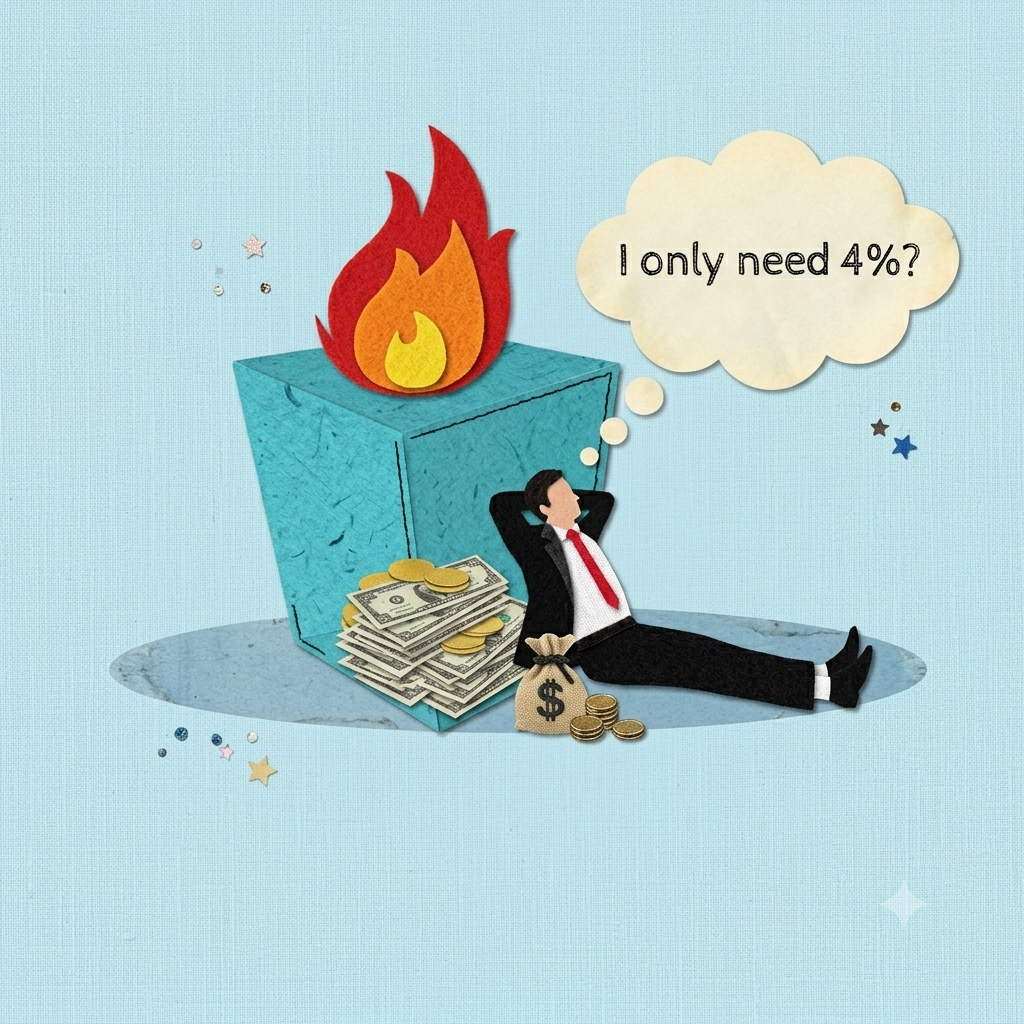
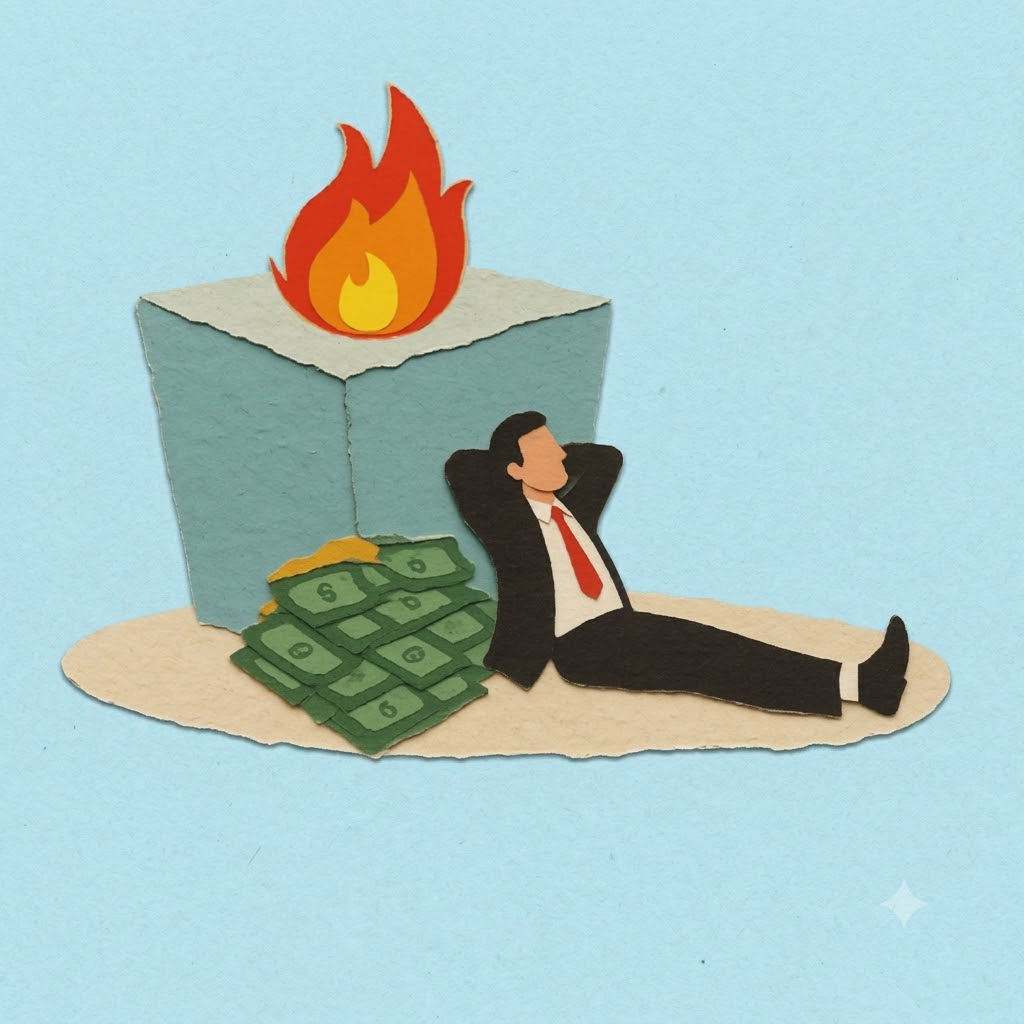
FIRE full article with 3 charts, LCGE article updated, thesis blockquote trimmed

diff --git a/src/app/thesis/page.tsx b/src/app/thesis/page.tsx
@@ -246,7 +246,7 @@ export default function ThesisPage() {
           {/* Blockquote — typewriter animation, outside space-y-6 so margins aren't collapsed */}
           <div className="my-12 md:my-16">
             <TypewriterQuote
-              text="What structural transformations are actually underway in the global economy today, and where do I see the world in 5–10 years on the innovation front?"
+              text="What structural transformations are actually underway in the global economy today, and where do I see the world in 5–10 years?"
               speed={25}
             />
           </div>

diff --git a/src/content/articles/fire-rule-doesnt-work.md b/src/content/articles/fire-rule-doesnt-work.md
@@ -3,10 +3,114 @@ title: "Why the 4% FIRE Rule Doesn't Work Anymore"
 date: "2026-04-10"
 byline: "Perspective"
 author: "Brian L."
-excerpt: "The 4% rule was calibrated for a different era — low inflation, stable bond yields, and a 60/40 portfolio that actually provided real diversification. None of those conditions hold today."
+excerpt: "The FIRE movement gets the philosophy right and the arithmetic wrong. The discipline it demands is rare and admirable — but the rule at its centre was built for a world that no longer exists, and the people following it deserve to know why."
 coverImage: "/article-images/fire_doesnt_work.png"
 coverPosition: "center center"
 latest: true
 ---
 
-*Full essay coming soon.*
+Before dismantling the math, it is worth saying something that most critiques of FIRE skip entirely: the instinct behind the movement is correct, and it is one of the few financial philosophies that deserves genuine respect.
+
+We are living in an era where credit card delinquency is at record highs, where a meaningful share of the population finances their Chipotle bowl with Klarna payments, and where living paycheck to paycheck is not an edge case but the default. Against that backdrop, the willingness to sacrifice a portion of your current lifestyle — to delay gratification, reduce consumption, and invest the difference — is a level of financial discipline that most people cannot sustain for a month, let alone a decade. The FIRE community has built an entire culture around that discipline, and the results are real. People in their thirties and forties have achieved a degree of financial independence that their parents did not reach until retirement age, if they reached it at all.
+
+The conventional path — work in a corporate environment for 40 years, retire at 65, and hope your body still lets you do something adventurous — is not a plan. It is a default. The herd mentality of following that default without questioning it, trading your most energetic and capable years for the promise of freedom at an age when your ability to enjoy it is diminished, is a far worse outcome than anything FIRE produces. There is nothing wrong with a fulfilling career — but doing it on autopilot because everyone else does is not the same thing as choosing it deliberately. The movement's core insight — that freedom has a price, and the price is lower than most people think if you are willing to be disciplined about it — is sound.
+
+What is not sound is the specific rule that sits at the centre of the movement. And the people who have built their entire financial future around it deserve a clear-eyed explanation of why.
+
+---
+
+## What FIRE Actually Is
+
+FIRE stands for Financial Independence, Retire Early. The core idea is straightforward: save and invest aggressively — typically 50% to 70% of your income — so that your investment portfolio reaches a size where the returns can fund your living expenses indefinitely, without needing a paycheck.
+
+The mathematical foundation of FIRE is the 4% rule, which originated from a 1994 study by financial planner William Bengen and was subsequently popularised by three professors at Trinity University in Texas in a 1998 paper known as the Trinity Study. The conclusion: a portfolio of 50% stocks and 50% bonds survived 95% of the time over 30-year periods when the retiree withdrew 4% of the initial balance, adjusted annually for inflation. In practice, this means that if your annual expenses are $40,000, you need a portfolio of $1 million. At $80,000 in expenses, you need $2 million. The number is simply your annual spending multiplied by 25.
+
+The movement has evolved into several distinct variants, each reflecting a different relationship between frugality, work, and lifestyle:
+
+**Lean FIRE** is the minimalist path — extreme frugality during both the accumulation and withdrawal phases, typically targeting annual spending of $40,000 or less. It requires the least capital but offers the least margin for error.
+
+**Fat FIRE** targets a more comfortable retirement lifestyle, often with annual spending of $100,000 or more. It requires substantially more capital — typically $2.5 million or higher — and is generally only accessible to high earners who can sustain aggressive savings rates on large incomes.
+
+**Barista FIRE** is the middle ground: retire from full-time work but take on part-time or freelance work to cover a portion of living expenses. The appeal is that a smaller nest egg is sufficient, and part-time employment can provide structure and, in some cases, benefits like employer-subsidised health insurance.
+
+**Coast FIRE** front-loads savings early in a career, then stops contributing and lets compounding do the rest over time. The idea is that if you invest aggressively in your twenties and thirties, you can coast — working at whatever pace you choose — because your portfolio will grow to a sufficient size by traditional retirement age without further contributions.
+
+Each of these variants has merit, and some are more realistic than others. But all of them share a common dependency: the assumption that a 4% withdrawal rate is sustainable over the long term. That assumption is where the problems begin.
+
+---
+
+## Critique 1: 4% Does Not Combat Real Inflation — and CPI Is Not Measuring What You Think It Is
+
+The 4% rule does account for inflation — the Trinity Study explicitly built CPI-adjusted withdrawals into its methodology, and to this day the standard FIRE framework adjusts the annual withdrawal upward each year based on the Consumer Price Index. If CPI says inflation was 3% this year, your $40,000 withdrawal becomes $41,200 next year. The rule is not ignoring inflation. The problem is that it is relying on an inflation measure that systematically understates the actual cost increases that matter most to a retiree's quality of life — and even if CPI were accurate, the forward return environment may no longer generate enough to sustain a 4% draw after the adjustment.
+
+Start with the math. A 4% real return — after inflation — requires a nominal portfolio return of roughly 7–8% in a normal inflation environment. That was achievable when the Trinity Study was published, and it has been achievable on average over the past century. But Vanguard's own capital markets model forecasts a 10-year median return of just 4.02% for U.S. equities — essentially equal to the withdrawal rate itself, before adjusting for inflation. If forward returns are even directionally in that range, a 4% withdrawal rate does not preserve capital. It depletes it.
+
+Now consider what the inflation adjustment is actually measuring. The Consumer Price Index is the government's official measure of price changes, and it is the benchmark the entire FIRE framework is built on. But CPI has been methodologically altered multiple times since the 1980s, and every major adjustment has had the effect of reporting a lower number than the prior methodology would have produced.
+
+The most consequential distortion is Owner's Equivalent Rent, which accounts for approximately 25.4% of the overall CPI — making it the single largest component of the index. OER does not measure what homeowners actually pay for housing. It measures what homeowners estimate they could rent their home for in a hypothetical market transaction that never occurs. The Bureau of Labor Statistics literally surveys homeowners and asks them to imagine being their own landlord — but homeowners are not looking at rental market rates, because they have no intention of renting or leasing their property. The number they provide is not derived from any market data. It is, for all practical purposes, a figure pulled from the sky. When mortgage rates doubled in 2022–2023, actual housing costs for buyers surged — but OER barely moved, because the question being asked has almost no relationship to the cost being experienced.
+
+The substitution effect compounds this. The Boskin Commission recommended in 1996 that CPI should account for consumer substitution — the idea that when steak becomes expensive, people buy chicken instead, and the index should reflect what people actually consume rather than a fixed basket. On its face, this is reasonable. In practice, every adjustment has lowered the reported rate, because substitution is not a reduction in inflation — it is a behavioural adaptation to inflation that the index treats as equivalent to prices not having risen.
+
+Hedonic adjustments add a third layer. When a product improves in quality — a faster laptop, a car with more safety features — the BLS adjusts the price downward to reflect the additional value. The logic is that you are getting more for your money, so the effective price increase is smaller than the sticker price suggests. The problem is that hedonic adjustments almost never run in the other direction. When quality decreases — smaller portions, thinner materials, fewer customer service hours — the index rarely adjusts upward.
+
+The cumulative effect of these methodological choices is an inflation measure that consistently understates the actual erosion of purchasing power. For a FIRE retiree whose withdrawal adjustments are pegged to CPI, this means the portfolio is being drawn down faster in real terms than the spreadsheet suggests — a gap that compounds over decades into a material shortfall.
+
+![How CPI Understates What You Actually Pay](/article-images/fire_cpi_gap.png)
+
+---
+
+## Critique 2: Assuming 4% in Perpetuity Assumes a Linear, Non-Changing World
+
+The 4% rule is a backward-looking observation, not a forward-looking guarantee. It was derived from historical market data ending in the mid-1990s, during a period when the 10-year Treasury yielded 5–6% and the "safe" half of a 60/40 portfolio did real work. The original Trinity Study tested 30-year retirement horizons — appropriate for someone retiring at 65, wholly inadequate for someone retiring at 40 who needs their portfolio to survive 50 or more years. The updated Trinity Study using data through 2025 confirms this directly: the 4% rule still works for 30-year retirements but fails for longer horizons. Morningstar's State of Retirement Income 2026 report now recommends a 3.9% safe withdrawal rate — and even that is based on a 30-year window that does not apply to most FIRE retirees.
+
+Sequence of returns risk makes this worse in ways that average-return calculations completely obscure. The 4% rule assumes average returns over time, but retirement spending is not funded by averages — it is funded by the specific sequence of returns you actually experience. A market crash in your first three years of retirement forces you to sell assets at depressed prices to fund withdrawals, permanently destroying the compounding base that the entire strategy depends on. Two retirees with identical average returns over 30 years can have completely opposite outcomes — one runs out of money, the other dies wealthy — based entirely on whether the bad years came early or late. The 4% rule has no mechanism to account for this. It assumes the sequence does not matter. It does.
+
+![The 4% Rule Was Built for 30 Years — FIRE Needs 50+](/article-images/fire_survival_rate.png)
+
+But the deeper problem is not about historical data or return sequencing. It is about the assumption embedded in the entire framework: that the future will resemble the past closely enough for a rule derived from 130 years of data to remain predictive. That assumption — of a roughly linear, roughly stable world — is the worst possible assumption to make in the current moment.
+
+We are living through the most rapid technological transformation in human history. Artificial intelligence is restructuring entire industries in real time — displacing jobs, creating new ones, compressing product cycles, and altering the economics of nearly every sector. The labour market that existed when you built your FIRE spreadsheet may not exist in the same form ten years from now. The industries generating the equity returns your portfolio depends on may not generate those returns in the same way. The cost structure of healthcare, housing, education, and energy — the categories that matter most to a retiree — is being reshaped by forces that no historical dataset can model.
+
+Assuming that a rule derived from a century of relatively stable economic structure will hold through a period of unprecedented structural disruption is not conservative planning. It is the opposite.
+
+---
+
+## Critique 3: FIRE Works Best When Your Life Is Simplest — and Life Has a Way of Getting More Complicated
+
+The FIRE model is most robust for a single person with low fixed costs, geographic flexibility, and no dependents. The further your life deviates from that profile, the more fragile the model becomes — and the deviations tend to move in one direction: toward more complexity, more cost, and less predictability.
+
+Children are the most obvious example. The cost of raising a child to age 18 in the United States is estimated at $230,000 to $310,000, and that figure excludes post-secondary education, which can easily double it. These costs are not evenly distributed — they spike at unpredictable intervals (childcare in the early years, activities and sports in the middle years, tuition at the end) and are influenced by decisions that are difficult to forecast a decade in advance. A FIRE plan built at 28 on the assumption of no children looks very different at 35 when a family enters the picture. The 25x multiplier does not have a variable for "life changed."
+
+Property ownership introduces a different kind of unpredictability. A mortgage is a fixed obligation, but the costs surrounding it — property taxes, maintenance, insurance, major repairs — are not. A new roof is $15,000. A furnace replacement is $8,000. Property tax reassessments in appreciating markets can increase annual costs by 20–30% over a decade. None of these are captured in a FIRE calculation that models "housing costs" as a flat annual number.
+
+Healthcare before Medicare eligibility is a structural risk that FIRE planning consistently underestimates. Retire at 45 and you face 20 years of self-funded health insurance. Premiums for individual coverage can run double to triple what employer-sponsored plans cost — easily $15,000 to $30,000 per year for a family, and rising faster than headline inflation. Medical care prices have increased at more than double the rate of overall inflation since 1970, and approximately seven in ten adults will require some form of long-term care. These are not tail risks. They are base rates.
+
+The broader point is that FIRE's promise of freedom is built on a paradox: the "freedom" requires strict budgeting, continuous cost monitoring, and the discipline to stay within a withdrawal rate that leaves almost no margin for error. If your annual budget is $40,000 and an unexpected expense adds $10,000, you have just exceeded your withdrawal rate by 25%. In a year when the market is also down, you are selling depressed assets to cover a cost you did not plan for, compounding the sequence-of-returns problem described above. The freedom to not work is real. The freedom to not worry about money is not — and for many FIRE retirees, the constant vigilance required to stay on plan feels less like liberation and more like a different kind of constraint.
+
+![The Hidden Costs FIRE Spreadsheets Miss](/article-images/fire_hidden_costs.png)
+
+---
+
+## The Opportunity Cost Nobody Talks About
+
+There is one more dimension to this that the FIRE community rarely confronts: the cost of what you did not do because you were optimising for the lowest possible spending number.
+
+Pushing every dollar toward early retirement can crowd out investments in learning, career advancement, skill development, and entrepreneurial experiments that might have dramatically increased your future earning power. The FIRE saver optimises the denominator — expenses — while treating the numerator — income — as fixed. In a stable economy, that tradeoff might be acceptable. In an era where AI is reshaping the value of human capital in real time, where new skills can unlock entirely new income categories, and where adaptability is the single most valuable professional trait, the opportunity cost of extreme frugality is higher than it has ever been.
+
+The irony is that the same discipline that makes someone a successful FIRE saver — delayed gratification, long-term thinking, willingness to sacrifice — would almost certainly make them a successful investor, entrepreneur, or high-performer in a field that rewards exactly those traits. Channeling that discipline exclusively into minimising expenses, rather than maximising capability, may be the most expensive decision a FIRE adherent makes.
+
+---
+
+## What This Means for How You Should Think About It
+
+None of this is an argument against financial independence. Financial independence — the state of having enough capital that work is optional rather than mandatory — is one of the most valuable things a person can achieve. The FIRE movement's contribution to normalising that goal, and to providing a framework for people who would otherwise never think about it, is genuinely significant.
+
+The argument is against the specific rule at the centre of the movement. The 4% withdrawal rate was derived from a narrower historical window than most people realise, tested over a shorter time horizon than FIRE requires, adjusted for an inflation measure that systematically understates real cost increases, and built on the assumption that the future will resemble the past — an assumption that has never been less safe than it is right now.
+
+If you are pursuing FIRE, the path forward is not to abandon the philosophy. It is to stress-test the math with more honest inputs: a withdrawal rate closer to 3% or even lower, an inflation assumption that reflects what you actually spend money on rather than what CPI reports, a buffer for healthcare and family costs that are not optional line items, and a recognition that the world your portfolio will operate in for the next 40 years will look nothing like the world that generated the historical returns the rule was built on.
+
+Financial independence is worth pursuing. The discipline the FIRE community cultivates is worth celebrating. But the specific number at the centre of the movement — 4%, multiplied by 25, and you are free — deserves a harder look than it is getting. The people who have bet their futures on it deserve to know what the rule does not account for.
+
+---
+
+*Disclaimer: This is not financial advice. I'm sharing my personal analysis and research process. Do your own due diligence before making any financial decisions.*

diff --git a/src/content/articles/lcge-bitcoin-treasury.md b/src/content/articles/lcge-bitcoin-treasury.md
@@ -1,11 +1,103 @@
 ---
-title: "LCGE for a Bitcoin Treasury Company"
+title: "Creating a BTC Holding Company for LCGE Eligibility in Canada: Does It Work?"
 date: "2026-04-20"
-author: "Brian L."
 byline: "Wealth Stories"
-excerpt: "The Lifetime Capital Gains Exemption was designed for small business owners. Here's how a Bitcoin treasury structure could qualify — and why it matters for Canadian founders."
+author: "Brian L."
+excerpt: "I spent a week building a tax-free Bitcoin strategy with Grok's help, formed a company called BitStrat Financial — at least in my head — and then paid a real tax lawyer $600 to tell me why most of it wouldn't survive a CRA audit."
 coverImage: "/article-images/lcge-bitcoin-treasury-company.png"
 coverPosition: "center center"
 ---
 
-*Full essay coming soon.*
+This is not a typical Lakespring article. There are no charts, no thesis statements, and no investment recommendations. This is the story of how I tried to legally minimise the capital gains tax on my family's Bitcoin holdings, how a week of conversations with Grok convinced me I had found the playbook to do it, and what happened when I sat down with one of Canada's most respected crypto tax lawyers and asked him if any of it was real.
+
+I want to be clear about something before going any further: nothing I explored was illegal, and nothing I would ever pursue would be. I have and will always honour the rules in place in Canada. But I also understand something that most people do not think about: the real way the ultra-wealthy preserve generational capital is not by breaking rules — it is by understanding, in granular detail, the legal mechanisms that exist within the tax code and using them intelligently. These are not loopholes in the pejorative sense. They are provisions written into law, available to anyone who knows they exist and has the discipline to use them correctly. The difference between the billionaire and the average taxpayer is not access to illegal strategies. It is access to information, professional advice, and the willingness to engage with complexity.
+
+That was the spirit behind this exercise. And I am sharing the outcome because the lesson cost me $600 — which is a lot cheaper than what it would have cost if I had followed the plan without checking.
+
+---
+
+## The Setup
+
+I hold Bitcoin across my personal portfolio and manage additional holdings on behalf of family members — a responsibility that is central to the Lakespring mission of being the active custodian and safekeeper of my family's financial future. Between my personal position and my family's, we were sitting on a meaningful unrealized capital gain. I had been seriously considering a permanent move to Malaysia, where capital gains on cryptocurrency are not taxed, but the plan needed to be robust enough to work even if I stayed in Canada permanently. The question that started everything was simple: is there a legal way to structure these holdings to minimise or eliminate the capital gains tax that would otherwise be owed? This was back in December 2025, when I was planning to resign from my full-time role at the end of the year — something I would have needed to do anyway if I was going to operate a lending business full-time to meet LCGE eligibility requirements.
+
+I did what a growing number of people do when they have a complex question and no immediate access to a specialist: I opened Grok.
+
+---
+
+## What I Built With Grok
+
+Over the course of roughly a week, I had an extended, iterative conversation with Grok — xAI's large language model — probing it with questions about Canadian tax law, cryptocurrency classification, corporate structures, and cross-border emigration rules. I was not passively receiving a plan. I was actively building one, using Grok as a research tool to test ideas, learn the mechanics of provisions I had never encountered before, and stress-test scenarios against each other. The emigration timeline, the lending business concept, the family structure — all of it was mine. Grok was the research engine. I was the architect. I even had a name picked out: BitStrat Financial. As a funny aside, BitStrat lasted about a week — and not even materially, just in my head.
+
+The core strategy I assembled was a multi-step sequence: incorporate an Ontario corporation, transfer the Bitcoin into it using a Section 85 rollover at the adjusted cost base (tax-deferred), operate a genuine Bitcoin lending business through the corporation for 18–24 months to qualify the shares as Qualifying Small Business Corporation (QSBC) shares, then crystallize the gain using a Section 86 share freeze combined with a discretionary family trust to multiply the Lifetime Capital Gains Exemption across family members. The result, if everything worked: $0 in Canadian capital gains tax. Emigrate to Malaysia, redeem the preferred shares, and live tax-free in both jurisdictions — or stay in Canada and sell the QSBC shares to an arm's-length buyer with the gain fully sheltered by the LCGE.
+
+I also explored a partnership structure. The idea was to open a partnership with my mother — who also held Bitcoin — and file under a T2125 Statement of Business Activities, classifying the Bitcoin as inventory rather than capital property. The partnership would operate the lending business, and when we wound down the operation, the holdings could be divided in a manner that optimised each individual's LCGE exemption in the form of shares. This was consistent with how I think about Lakespring broadly: I am not just managing my own portfolio. I am actively managing my family's assets, and the structures I explore reflect that responsibility.
+
+The plan Grok helped me research came with everything. Platform recommendations — Ledn and APX Lending, both Toronto-based and FINTRAC-registered, were identified as the safest options for establishing the active business requirement. Unchained was flagged and rejected for being a U.S. entity without CSA registration. There were comparison tables for corporations versus limited partnerships. There were crystallization mechanics explained step by step. There were success rate estimates — 85 to 93 percent with proper professionals, Grok said, citing what it described as real-world precedents from Toronto crypto tax specialists. There was a phased timeline I had mapped out: incorporate by early 2026, lend actively through 2027, crystallize by late 2027 or early 2028, then emigrate or sell.
+
+Grok even surfaced specific law firms. Roth & Company for accounting. Fasken Martineau for legal. Fee estimates were provided. A phased billing structure was suggested. The projected savings after professional costs ran into six figures.
+
+The playbook was 40 pages when I compiled it into a document. It had tables comparing every scenario. It addressed counterarguments before I raised them. It anticipated follow-up questions and answered them with what felt like authority. If you had handed it to someone without tax expertise, they would have been completely convinced.
+
+I was completely convinced.
+
+---
+
+## The $600 Reality Check
+
+I booked a consultation with Rotfleisch & Samulovitch, a Toronto-based tax law firm that specialises in cryptocurrency taxation. The consultation fee was $600 for one hour with Jack Wang, one of their senior lawyers. I figured the fee was a small price to pay if the strategy could save my family a few hundred times that amount.
+
+I walked him through the plan I had built. The Section 85 rollover. The QSBC qualification through lending. The partnership angle with my mother. The Section 86 freeze. The family trust multiplication. The Malaysia emigration with zero departure tax. The fallback of selling QSBC shares in Canada if I stayed.
+
+The conversation was shorter than I expected.
+
+Wang explained that the Income Tax Act dedicates approximately one-third of its contents to specific anti-avoidance rules — provisions designed explicitly to prevent the kinds of multi-step structures I had mapped out. And beyond those specific rules, there is the General Anti-Avoidance Rule, known as GAAR — a broad provision that gives the CRA the authority to deny tax benefits from transactions that, while technically compliant with the letter of individual provisions, are determined to be an abuse of the Act read as a whole. In his view, GAAR is an unfair tool that deters taxpayers from aggressive tax planning — but it exists, it is enforced, and it is the reason that elaborate multi-step strategies with the primary purpose of avoiding tax are far riskier than any success-rate estimate would suggest.
+
+After reviewing the full plan, his advice came down to two options.
+
+**Option 1:** Incorporate and do the Section 85 rollover, then purify the corporation for two years and claim the Lifetime Capital Gains Exemption. This could save $150,000 to $200,000 in tax depending on the size of the gain. The drawback is that the Bitcoin would need to remain inside the Canadian corporation for the duration of the qualification period — meaning less flexibility and ongoing corporate obligations.
+
+**Option 2:** Simply hold the Bitcoin as capital property and pay the capital gains tax when you sell or emigrate. You cannot claim the LCGE on personally held cryptocurrency, but capital gains are taxed at the lowest rate among income types in Canada — roughly 25% on the gain, depending on your marginal rate and the inclusion rate in effect.
+
+That was it. Two options. Not twelve. Not a 40-page playbook with phased timelines and 93% success rates and platform comparisons and family trust multiplication strategies. Two straightforward paths, both operating clearly within the framework that the anti-avoidance rules permit.
+
+Wang mentioned something that stayed with me: this was essentially a first for his practice — not the question itself, but the level of elaborate planning a client had arrived with, assembled through conversations with an AI. He noted that most of his clients, when they understand the actual rules, find the roughly 25% capital gains tax rate acceptable. Many prefer holding their crypto directly without imposing a corporation as a middle layer, because the simplicity and flexibility of personal ownership has real value that a spreadsheet does not capture.
+
+---
+
+## What Grok Got Wrong — and Why It Matters
+
+To be clear, Grok was not making things up from nothing. The individual provisions it helped me research — Section 85 rollovers, QSBC qualification, Section 86 freezes, the LCGE, family trusts, T2125 partnership structures — are all real mechanisms in Canadian tax law. The platforms it surfaced are legitimate. The fee estimates for professional services were in the right ballpark. The surface-level accuracy is what made the plan so convincing.
+
+What Grok fundamentally missed was the interaction between those provisions and the anti-avoidance framework that governs how they can be used together. Each step in the plan was individually legitimate. The sequence of steps, combined with the clear purpose of minimising tax on what would otherwise be a straightforward capital gain, is exactly the kind of arrangement that GAAR was designed to challenge. Grok treated the tax code like a set of building blocks that can be assembled in any configuration. A tax lawyer understands that the blocks come with rules about which configurations are permitted — and that the CRA has a powerful, broadly worded tool to disassemble configurations it considers abusive, even when each individual block was placed correctly.
+
+The confidence levels Grok assigned — 85 to 93 percent success rates — were fabricated. There is no public dataset of QSBC crystallization outcomes for cryptocurrency corporations. Grok generated numbers that sounded authoritative because the conversational format demanded them, not because the underlying data existed. If I had relied on those numbers to make a decision affecting my family's largest asset, the consequences could have been severe.
+
+The lending platform analysis was genuine and well-researched. The corporate structure comparison was largely accurate in isolation. The emigration timeline was reasonable. But the overall strategy — the idea that you could string together seven or eight legitimate tax provisions into a single chain with the express purpose of reducing a six-figure tax bill to zero — was the kind of aggressive planning that the ITA's anti-avoidance rules exist specifically to prevent.
+
+---
+
+## The Lesson
+
+There are three takeaways from this experience that I think are worth sharing.
+
+The first is that Grok — and large language models generally — are extraordinarily good at assembling information that looks correct and sounds authoritative. The 40-page playbook I built with Grok's help was better-written, better-structured, and more detailed than most advice you would get from a junior accountant. If I had not spent the $600 to check it with a real professional, I would have proceeded with complete confidence — and potentially exposed myself and my family to CRA reassessment, penalties, a tax bill larger than the one I was trying to minimise, and 18 to 24 months of wasted time building a lending business that I would have needed to operate full-time to make LCGE-eligible. That is not just a financial risk. That is walking away from a career to run a corporation that may not survive its first audit.
+
+The second is that tax law is not a system of independent provisions that can be combined freely. It is a system with meta-rules — GAAR being the most important — that govern the permissible interactions between provisions. Grok has read every section of the Income Tax Act, but it does not understand the enforcement philosophy behind GAAR. It will produce strategies that are technically literate and practically dangerous. The difference between tax planning and tax avoidance is not always in the individual steps. It is in the intent of the sequence — and the CRA evaluates intent.
+
+The third is that sometimes the straightforward answer is the right one. Paying 25% on a capital gain is not exciting. It does not make for a compelling story. It does not feel like you have optimised anything. But it is simple, it is certain, it leaves you with full control of your assets, and it does not require you to maintain a corporation, register with FINTRAC, operate a lending business for two years, and navigate a crystallization process with a family trust — all for the privilege of maybe saving money, subject to a GAAR challenge that you cannot predict.
+
+The $600 consultation was the best financial decision I made that year. Not because it saved me money — it technically cost me money, since the answer was "the simplest path is probably the right one." But it saved me from a far more expensive mistake: acting on a plan that was sophisticated enough to be convincing and incomplete enough to be dangerous.
+
+---
+
+## A Note on Grok and Financial Research
+
+I want to be careful here because I use large language models extensively in my research process — including for the investment articles published on this platform. Grok, Claude, and other models are genuinely useful for synthesising information, identifying patterns, drafting analysis, and stress-testing arguments. I will continue using them.
+
+But there is a categorical difference between using these tools to research a topic and using them to make a decision. The playbook I built with Grok was research that presented itself as a decision-ready plan. It had the format, the confidence, and the specificity of professional advice — but it lacked the judgment that comes from understanding how rules are actually enforced, how regulators actually think, and how plans actually fail in practice.
+
+If you are holding a significant amount of cryptocurrency and considering a tax strategy that involves corporate structures, trust arrangements, partnerships, or cross-border moves, spend the consultation fee. Talk to a human who has sat across from a CRA auditor. The $600 will either confirm that your plan works — in which case it was the cheapest insurance you ever bought — or it will save you from a plan that does not work, which is worth considerably more.
+
+---
+
+*Disclaimer: This is not financial or tax advice. I'm sharing a personal experience to illustrate the limitations of AI-generated tax strategies. Consult a qualified tax professional for your specific situation.*